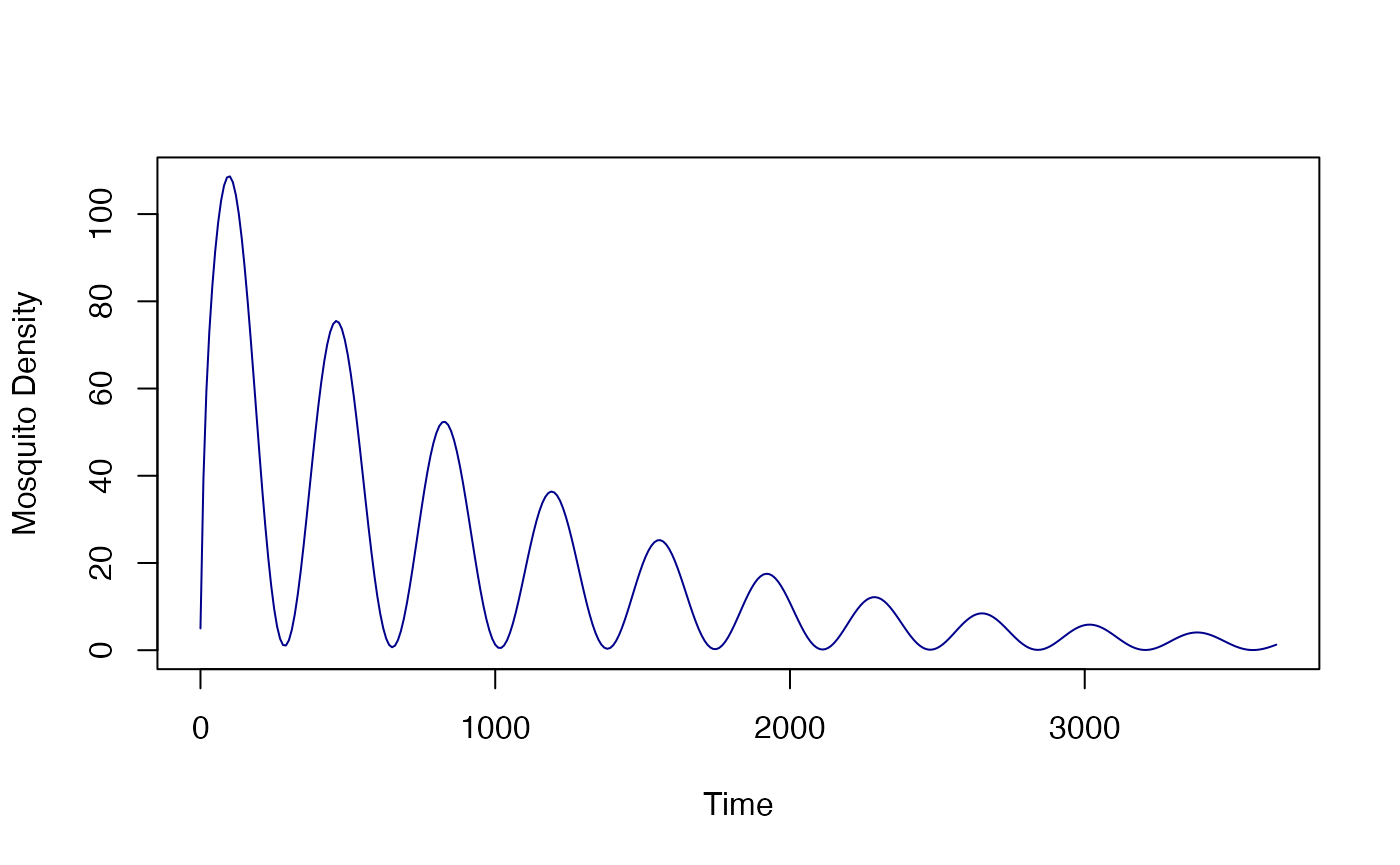
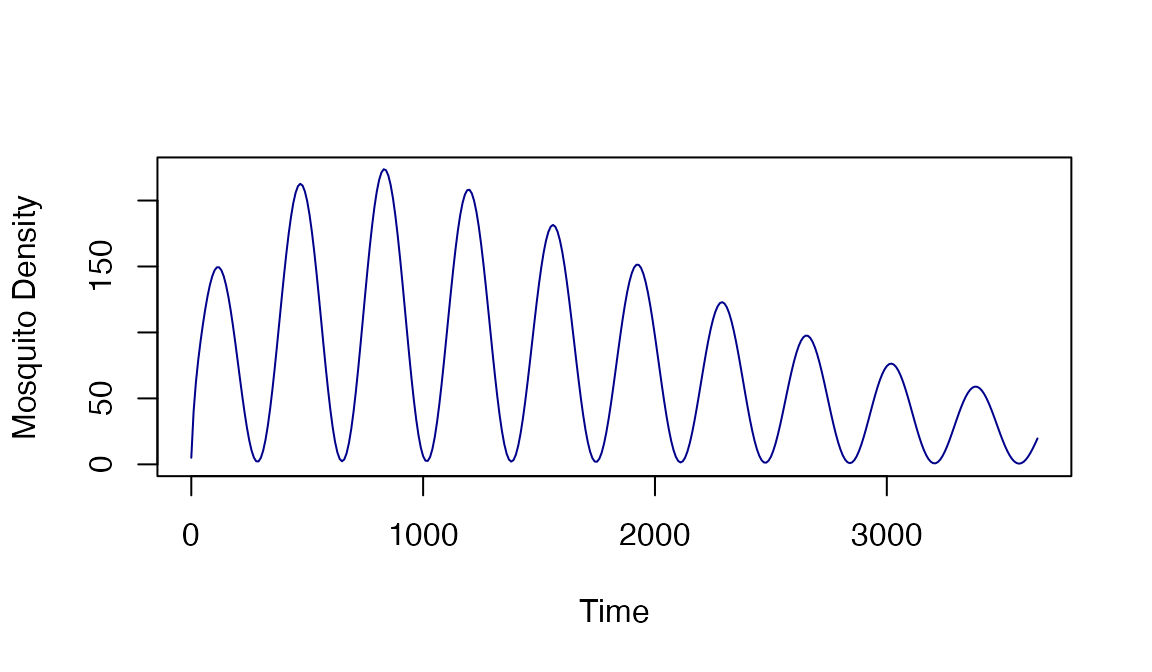
updated TraceFunctions vignette
also, minor edits to AdultMosquitoes vignette

diff --git a/docs/articles/AdultMosquitoes.html b/docs/articles/AdultMosquitoes.html
@@ -181,18 +181,14 @@
 <div class="sourceCode" id="cb1"><pre class="downlit sourceCode r">
 <code class="sourceCode R"><span><span class="kw"><a href="https://rdrr.io/r/base/library.html" class="external-link">library</a></span><span class="op">(</span><span class="va"><a href="https://dd-harp.github.io/ramp.xds/">ramp.xds</a></span><span class="op">)</span></span>
 <span><span class="kw"><a href="https://rdrr.io/r/base/library.html" class="external-link">library</a></span><span class="op">(</span><span class="va"><a href="https://sjmgarnier.github.io/viridisLite/" class="external-link">viridisLite</a></span><span class="op">)</span></span></code></pre></div>
-<div class="section level2">
-<h2 id="oplus">
-<span class="math inline">\(\oplus\)</span><a class="anchor" aria-label="anchor" href="#oplus"></a>
-</h2>
 <p>The basic mosquito models in <strong><code>ramp.xds</code></strong>
 are variants of George Macdonald mathematical models, developed with
 help from P. Armitage. The variables for all the models in
 <strong><code>ramp.xds</code></strong> are mosquito densities, and the
 default model is from Aron &amp; May, 1982.</p>
-<div class="section level3">
-<h3 id="george-macdonald">George Macdonald<a class="anchor" aria-label="anchor" href="#george-macdonald"></a>
-</h3>
+<div class="section level2">
+<h2 id="george-macdonald">George Macdonald<a class="anchor" aria-label="anchor" href="#george-macdonald"></a>
+</h2>
 <p>George Macdonald’s papers published from 1952 transformed the
 quantitative study of medical entomology and malaria transmission by
 mosquitoes:</p>
@@ -231,10 +227,10 @@ Aron and Bob May in 1982. In the following, we discuss models for
 mosquito ecology and infection dynamics in
 <strong><code>ramp.xds</code></strong></p>
 </div>
-<div class="section level3">
-<h3 id="rm">
+<div class="section level2">
+<h2 id="rm">
 <code>RM</code><a class="anchor" aria-label="anchor" href="#rm"></a>
-</h3>
+</h2>
 <p>Let <span class="math inline">\(M\)</span> denote the density of
 adult mosquitoes, <span class="math inline">\(\Lambda(t)\)</span> the
 emergence rate of adult mosquitoes from aquatic habitats, and <span class="math inline">\(g\)</span> the adult mosquito mortality rate.
@@ -281,18 +277,18 @@ human population density of <span class="math inline">\(H=10.\)</span></p>
 <code class="sourceCode R"><span><span class="fu"><a href="../reference/xds_plot_M.html">xds_plot_M</a></span><span class="op">(</span><span class="va">rm</span><span class="op">)</span></span>
 <span><span class="fu"><a href="../reference/xds_plot_YZ.html">xds_plot_YZ</a></span><span class="op">(</span><span class="va">rm</span>, add_axes<span class="op">=</span><span class="cn">FALSE</span><span class="op">)</span></span></code></pre></div>
 <p><img src="AdultMosquitoes_files/figure-html/unnamed-chunk-4-1.png" width="480"></p>
-<div class="section level4">
-<h4 id="macdonalds-formula">Macdonald’s Formula<a class="anchor" aria-label="anchor" href="#macdonalds-formula"></a>
-</h4>
+<div class="section level3">
+<h3 id="macdonalds-formula">Macdonald’s Formula<a class="anchor" aria-label="anchor" href="#macdonalds-formula"></a>
+</h3>
 <p>If we wanted to replicate Macdonald’s equations, we would let <span class="math inline">\(a=fq\)</span>, <span class="math inline">\(p =
 e^{-g}\)</span> or equivalently <span class="math inline">\(g = -\ln
 p\)</span>, <span class="math inline">\(\kappa = x,\)</span> and <span class="math inline">\(n=\tau\)</span> so:</p>
 <p><span class="math display">\[e^{-g\tau} \frac{fq\kappa}{g+fq\kappa} =
 p^n \frac{ax}{ax - \log_{e}p}\]</span></p>
 </div>
-<div class="section level4">
-<h4 id="spatial-dynamics">Spatial Dynamics<a class="anchor" aria-label="anchor" href="#spatial-dynamics"></a>
-</h4>
+<div class="section level3">
+<h3 id="spatial-dynamics">Spatial Dynamics<a class="anchor" aria-label="anchor" href="#spatial-dynamics"></a>
+</h3>
 <p><strong><code>ramp.xds</code></strong> can also model mosquito
 spatial dynamics, as described in <a href="https://journals.plos.org/ploscompbiol/article?id=10.1371/journal.pcbi.1010684" class="external-link">Spatial
 Dynamics of Malaria Transmission (2023) <em>PLoS Computational
@@ -318,19 +314,19 @@ matrix</p></li>
 \mbox{diag}\left(\sigma\right)\]</span></p>
 </div>
 </div>
-<div class="section level3">
-<h3 id="variants">Variants<a class="anchor" aria-label="anchor" href="#variants"></a>
-</h3>
+<div class="section level2">
+<h2 id="variants">Variants<a class="anchor" aria-label="anchor" href="#variants"></a>
+</h2>
 <p><strong><code>ramp.xds</code></strong> also includes two variants of
 Macdonald’s model:</p>
 <ul>
 <li><p><code>si</code> is a simpler version of the model above</p></li>
 <li><p><code>sei</code> is a compartmental model</p></li>
 </ul>
-<div class="section level4">
-<h4 id="si">
+<div class="section level3">
+<h3 id="si">
 <code>si</code><a class="anchor" aria-label="anchor" href="#si"></a>
-</h4>
+</h3>
 <p>A simple variant of Macdonald’s model ignores the delay for the EIP.
 The equation for <span class="math inline">\(M\)</span> and <span class="math inline">\(Y\)</span> are as above, but</p>
 <p><span class="math display">\[Z = e^{-g\tau} Y\]</span></p>
@@ -342,10 +338,10 @@ The equation for <span class="math inline">\(M\)</span> and <span class="math in
 <span><span class="fu"><a href="../reference/xds_plot_YZ_fracs.html">xds_plot_YZ_fracs</a></span><span class="op">(</span><span class="va">rm</span>, add_axes<span class="op">=</span><span class="cn">FALSE</span>, llty<span class="op">=</span><span class="fl">2</span><span class="op">)</span></span></code></pre></div>
 <p><img src="AdultMosquitoes_files/figure-html/unnamed-chunk-6-1.png" width="480"></p>
 </div>
-<div class="section level4">
-<h4 id="sei">
+<div class="section level3">
+<h3 id="sei">
 <code>sei</code><a class="anchor" aria-label="anchor" href="#sei"></a>
-</h4>
+</h3>
 <p>In a model that is equivalent to the standard SEI compartmental model
 (under a change of variables), the equations for <span class="math inline">\(M\)</span> and <span class="math inline">\(Y\)</span> are as above, but the fraction
 infectious is:</p>
@@ -360,9 +356,9 @@ Z\]</span></p>
 <p><img src="AdultMosquitoes_files/figure-html/unnamed-chunk-8-1.png" width="480"></p>
 </div>
 </div>
-<div class="section level3">
-<h3 id="comparing-models">Comparing Models<a class="anchor" aria-label="anchor" href="#comparing-models"></a>
-</h3>
+<div class="section level2">
+<h2 id="comparing-models">Comparing Models<a class="anchor" aria-label="anchor" href="#comparing-models"></a>
+</h2>
 <div class="sourceCode" id="cb8"><pre class="downlit sourceCode r">
 <code class="sourceCode R"><span><span class="va">clrs</span> <span class="op">=</span> <span class="fu"><a href="https://sjmgarnier.github.io/viridisLite/reference/viridis.html" class="external-link">turbo</a></span><span class="op">(</span><span class="fl">4</span><span class="op">)</span><span class="op">[</span><span class="op">-</span><span class="fl">2</span><span class="op">]</span></span>
 <span><span class="fu"><a href="../reference/xds_plot_Z_fracs.html">xds_plot_Z_fracs</a></span><span class="op">(</span><span class="va">rm</span>, Zclrs<span class="op">=</span><span class="va">clrs</span><span class="op">[</span><span class="fl">1</span><span class="op">]</span><span class="op">)</span></span>
@@ -382,10 +378,9 @@ Z\]</span></p>
 <code class="sourceCode R"><span><span class="fu"><a href="../reference/xds_plot_M.html">xds_plot_M</a></span><span class="op">(</span><span class="va">rm</span><span class="op">)</span></span></code></pre></div>
 <p><img src="AdultMosquitoes_files/figure-html/unnamed-chunk-11-1.png" width="700"></p>
 </div>
-<div class="section level3">
-<h3 id="exogenous-forcing">Exogenous Forcing<a class="anchor" aria-label="anchor" href="#exogenous-forcing"></a>
-</h3>
-</div>
+<div class="section level2">
+<h2 id="exogenous-forcing">Exogenous Forcing<a class="anchor" aria-label="anchor" href="#exogenous-forcing"></a>
+</h2>
 </div>
   </div>
 

diff --git a/docs/articles/TraceFunctions.html b/docs/articles/TraceFunctions.html
@@ -181,23 +181,100 @@
 <div class="sourceCode" id="cb1"><pre class="downlit sourceCode r">
 <code class="sourceCode R"><span><span class="kw"><a href="https://rdrr.io/r/base/library.html" class="external-link">library</a></span><span class="op">(</span><span class="va"><a href="https://dd-harp.github.io/ramp.xds/">ramp.xds</a></span><span class="op">)</span></span>
 <span><span class="kw"><a href="https://rdrr.io/r/base/library.html" class="external-link">library</a></span><span class="op">(</span><span class="va"><a href="https://sjmgarnier.github.io/viridisLite/" class="external-link">viridisLite</a></span><span class="op">)</span></span></code></pre></div>
+<p>As part of the <em>plug-and-play</em> modular design for
+<strong><code>ramp.xds</code>,</strong> each dynamical component
+includes a trivial model that has no variables. The outputs required by
+other components are passed as a <strong>trace function</strong>. These
+trace functions have three parts:</p>
+<ul>
+<li><p>a mean value, or a scaling argument</p></li>
+<li><p>a function that returns a seasonal signal, configured with a line
+in the appropriate options list,
+<code>season = function(t){...}</code></p></li>
+<li><p>a function that returns a trend, configured with a line in the
+appropriate options list, <code>trend = function(t){...}</code></p></li>
+</ul>
+<p>The trivial modules each returns different values:</p>
+<ul>
+<li>
+<p><span class="math inline">\(\cal L\)</span> - The trivial aquatic
+module is set up by <code>create_Lpar_trivial.</code> The function
+<code><a href="../reference/F_emerge.html">F_emerge()</a></code> returns <code>Lambda*season(t)*trend(t).</code>
+To override the defaults, <code>Lopts</code> must be a named list that
+sets the values of the elements:</p>
+<ul>
+<li><p><code>Lambda = c(...)</code></p></li>
+<li><p><code>season = function(t){...}</code></p></li>
+<li><p><code>trend = function(t){...}</code></p></li>
+</ul>
+</li>
+<li>
+<p><span class="math inline">\(\cal MYZ\)</span> - The trivial adult
+mosquito module is setup by <code>create_MYZpar_trivial.</code> The
+values will return either <code>F_fqZ</code> or <code>F_eggs</code></p>
+<ul>
+<li>
+<p>the function <code><a href="../reference/F_fqZ.html">F_fqZ()</a></code> returns
+<code>f*q*Z*season(t)*trend(t)</code>. To configure,
+<code>MYZopts</code> should be a named list that sets the values of the
+elements:</p>
+<ul>
+<li><p><code>f = c(...)</code></p></li>
+<li><p><code>q = c(...)</code></p></li>
+<li><p><code>Z = c(...)</code></p></li>
+<li><p><code>season = function(t){...}</code></p></li>
+<li><p><code>trend = function(t){...}</code></p></li>
+</ul>
+</li>
+<li>
+<p>the function <code><a href="../reference/F_eggs.html">F_eggs()</a></code> returns
+<code>eggs*season(t)*trend(t)</code>; to override the defaults,
+<code>MYZopts</code> must be a named list that sets the values of the
+elements:</p>
+<ul>
+<li><p><code>eggs = c(...)</code></p></li>
+<li><p><code>season = function(t){...}</code></p></li>
+<li><p><code>trend = function(t){...}</code></p></li>
+</ul>
+</li>
+</ul>
+</li>
+<li>
+<p><span class="math inline">\(\cal X\)</span> - The trivial module
+for human / host infection and immunity is set up by
+<code>create_Xpar_trivial.</code> <code>F_X</code> calls
+<code>F_H</code> and then returns
+<code>H*kappa*season(t)*trend(t)</code></p>
+<p>-<code>F_H</code> is configured in <code>xds_setup</code> by passing
+<code>HPop = ...</code></p>
+<ul>
+<li>
+<p>To configure <code>F_X,</code> <code>Xopts</code> must be a named
+list that sets the values of the elements. The values of
+<code>F_X</code> should be in the interval <span class="math inline">\([0,H]:\)</span></p>
+<ul>
+<li><p><code>kappa = c(...)</code></p></li>
+<li><p><code>season = function(t){...}</code></p></li>
+<li><p><code>trend = function(t){...}</code></p></li>
+</ul>
+</li>
+</ul>
+</li>
+</ul>
 <div class="section level2">
-<h2 id="oplus">
-<span class="math inline">\(\oplus\)</span><a class="anchor" aria-label="anchor" href="#oplus"></a>
+<h2 id="emergence">Emergence<a class="anchor" aria-label="anchor" href="#emergence"></a>
 </h2>
-<p>The trivial models for each dynamical component include the</p>
-<div class="section level3">
-<h3 id="section"></h3>
+<p>The following example configures the emergence rate to rise
+initially, but then to decline with a seasonal signal:</p>
 <div class="sourceCode" id="cb2"><pre class="downlit sourceCode r">
 <code class="sourceCode R"><span><span class="va">Lo</span> <span class="op">=</span> <span class="fu"><a href="https://rdrr.io/r/base/list.html" class="external-link">list</a></span><span class="op">(</span>season <span class="op">=</span> <span class="kw">function</span><span class="op">(</span><span class="va">t</span><span class="op">)</span><span class="op">{</span><span class="fl">1</span><span class="op">+</span><span class="fu"><a href="https://rdrr.io/r/base/Trig.html" class="external-link">sin</a></span><span class="op">(</span><span class="fl">2</span><span class="op">*</span><span class="va">pi</span><span class="op">*</span><span class="va">t</span><span class="op">/</span><span class="fl">365</span><span class="op">)</span><span class="op">}</span>, </span>
-<span>          trend <span class="op">=</span> <span class="kw">function</span><span class="op">(</span><span class="va">t</span><span class="op">)</span><span class="op">{</span><span class="fu"><a href="https://rdrr.io/r/base/Log.html" class="external-link">exp</a></span><span class="op">(</span><span class="op">-</span><span class="va">t</span><span class="op">/</span><span class="fl">1000</span><span class="op">)</span><span class="op">}</span>, </span>
+<span>          trend <span class="op">=</span> <span class="kw">function</span><span class="op">(</span><span class="va">t</span><span class="op">)</span><span class="op">{</span><span class="op">(</span><span class="fl">1</span><span class="op">+</span><span class="va">t</span><span class="op">/</span><span class="fl">250</span><span class="op">)</span><span class="op">*</span><span class="fu"><a href="https://rdrr.io/r/base/Log.html" class="external-link">exp</a></span><span class="op">(</span><span class="op">-</span><span class="va">t</span><span class="op">/</span><span class="fl">1000</span><span class="op">)</span><span class="op">}</span>, </span>
 <span>          Lambda <span class="op">=</span><span class="fl">5</span><span class="op">)</span></span>
 <span><span class="va">rm</span> <span class="op">=</span> <span class="fu"><a href="../reference/xds_setup.html">xds_setup</a></span><span class="op">(</span>Xname <span class="op">=</span> <span class="st">"trivial"</span>, Xopts <span class="op">=</span> <span class="fu"><a href="https://rdrr.io/r/base/list.html" class="external-link">list</a></span><span class="op">(</span>kappa<span class="op">=</span><span class="fl">0.1</span><span class="op">)</span>, Lname <span class="op">=</span> <span class="st">"trivial"</span>, Lopts <span class="op">=</span> <span class="va">Lo</span>, HPop<span class="op">=</span><span class="fl">10</span><span class="op">)</span></span>
 <span><span class="va">rm</span> <span class="op">&lt;-</span> <span class="fu"><a href="../reference/xde_solve.html">xde_solve</a></span><span class="op">(</span><span class="va">rm</span>, <span class="fl">3650</span>, dt<span class="op">=</span><span class="fl">10</span><span class="op">)</span></span></code></pre></div>
 <div class="sourceCode" id="cb3"><pre class="downlit sourceCode r">
 <code class="sourceCode R"><span><span class="fu"><a href="../reference/xds_plot_M.html">xds_plot_M</a></span><span class="op">(</span><span class="va">rm</span><span class="op">)</span></span></code></pre></div>
-<p><img src="TraceFunctions_files/figure-html/unnamed-chunk-3-1.png" width="700"></p>
-</div>
+<p><img src="TraceFunctions_files/figure-html/unnamed-chunk-3-1.png" width="576"></p>
 </div>
   </div>
 
